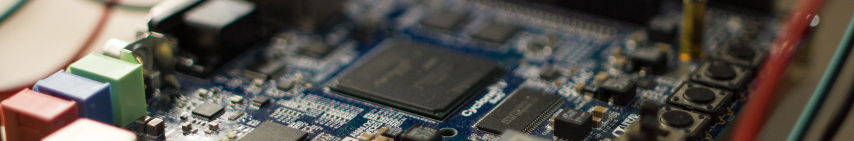
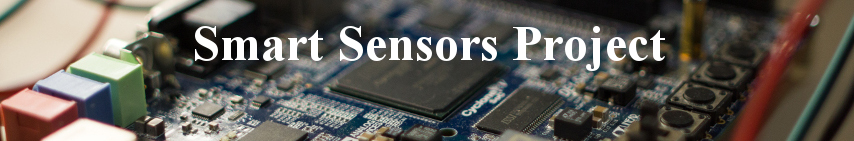
Added text to header image and improved translations

Changed region(s): [[0.2131, 0.1702, 0.7916, 0.5106], [0.6698, 0.1986, 0.7002, 0.227]]

diff --git a/es/project.html b/es/project.html
@@ -34,7 +34,6 @@
 				<a href="index.html">
 				<img src="../images/misc/portada.jpg" style= "margin-top: 5px" width="818px">
 				</a>
-				<div id="header-title" class="w3-display-middle">Smart Sensors Project</div>
 			</div>
 			
 			<div class="w3-content w3-display-container">
@@ -51,30 +50,30 @@
 			
 			<!-- Our goal Grid -->
 			<div class="w3-row-padding w3-padding-16 w3-container">	
-				<h1 width="818px">Our goal</h1>
+				<h1 width="818px"> Objectivo </h1>
 				<h5 style="text-indent: 40px" class="w3-padding-8">
-					Our goal is ...
+					Nuestro objetivo es ...
 					<ol class="research_list">
-						<li class="research_list"> FPSoC Characterization </li>
-					  	<li class="research_list"> FPSoC based UGV iSpace </li>
+						<li class="research_list"> Caracterización de FPSoC  </li>
+					  	<li class="research_list"> iSpace UGV basado en FPSoC </li>
 						<li class="research_list"> Quartz Crystal Microballance (QCM) </li>
-						<li class="research_list"> Battery Management System (BMS) </li>
-						<li class="research_list"> Medical applications </li>
+						<li class="research_list"> Sistema de gestión de baterías (BMS) </li>
+						<li class="research_list"> Aplicaciones médicas </li>
 					</ol>
 				  </h5>		
 			</div>
 			
 			<div class="w3-row-padding w3-padding-16 w3-container">	
-				<h1 width="818px">Lines of Research</h1>
+				<h1 width="818px"> Líneas de investigación </h1>
 				
 				
-				<h2> FPSoC Characterization </h2>
+				<h2> Caracterización de FPSoC </h2>
 				<h5 style="text-indent: 40px" class="w3-padding-8">
 					En un lugar de la Mancha, de cuyo nombre no quiero acordarme, no ha mucho tiempo que vivía un hidalgo de los de
 					lanza en astillero, adarga antigua, rocín flaco y galgo corredor. 
 				</h5>		
 				
-				<h2> FPSoC based UGV iSpace </h2>
+				<h2> iSpace UGV basado en FPSoC </h2>
 				<h5 style="text-indent: 40px" class="w3-padding-8">
 					En un lugar de la Mancha, de cuyo nombre no quiero acordarme, no ha mucho tiempo que vivía un hidalgo de los de
 					lanza en astillero, adarga antigua, rocín flaco y galgo corredor. 
@@ -86,13 +85,13 @@
 					lanza en astillero, adarga antigua, rocín flaco y galgo corredor. 
 				</h5>	
 				
-				<h2> Battery Management System (BMS) </h2>
+				<h2> Sistema de gestión de baterías (BMS) </h2>
 				<h5 style="text-indent: 40px" class="w3-padding-8">
 					En un lugar de la Mancha, de cuyo nombre no quiero acordarme, no ha mucho tiempo que vivía un hidalgo de los de
 					lanza en astillero, adarga antigua, rocín flaco y galgo corredor. 
 				</h5>	
 				
-				<h2> Medical applications </h2>
+				<h2> Aplicaciones médicas </h2>
 				<h5 style="text-indent: 40px" class="w3-padding-8">
 					En un lugar de la Mancha, de cuyo nombre no quiero acordarme, no ha mucho tiempo que vivía un hidalgo de los de
 					lanza en astillero, adarga antigua, rocín flaco y galgo corredor. 

diff --git a/gl/project.html b/gl/project.html
@@ -34,7 +34,6 @@
 				<a href="index.html">
 				<img src="../images/misc/portada.jpg" style= "margin-top: 5px" width="818px">
 				</a>
-				<div id="header-title" class="w3-display-middle">Smart Sensors Project</div>
 			</div>
 			
 			<div class="w3-content w3-display-container">
@@ -51,30 +50,30 @@
 			
 			<!-- Our goal Grid -->
 			<div class="w3-row-padding w3-padding-16 w3-container">	
-				<h1 width="818px">Our goal</h1>
+				<h1 width="818px">Obxetivo</h1>
 				<h5 style="text-indent: 40px" class="w3-padding-8">
-					Our goal is ...
+					O noso obxetivo é ...
 					<ol class="research_list">
-						<li class="research_list"> FPSoC Characterization </li>
-					  	<li class="research_list"> FPSoC based UGV iSpace </li>
+						<li class="research_list"> Caracterización de FPSoC  </li>
+					  	<li class="research_list"> iSpace UGV basado en FPSoC </li>
 						<li class="research_list"> Quartz Crystal Microballance (QCM) </li>
-						<li class="research_list"> Battery Management System (BMS) </li>
-						<li class="research_list"> Medical applications </li>
+						<li class="research_list"> Sistema de xestión de baterías (BMS) </li>
+						<li class="research_list"> Aplicacións médicas </li>
 					</ol>
 				  </h5>		
 			</div>
 			
 			<div class="w3-row-padding w3-padding-16 w3-container">	
-				<h1 width="818px">Lines of Research</h1>
+				<h1 width="818px"> Líneas de investigación </h1>
 				
 				
-				<h2> FPSoC Characterization </h2>
+				<h2> Caracterización de FPSoC </h2>
 				<h5 style="text-indent: 40px" class="w3-padding-8">
 					En un lugar de la Mancha, de cuyo nombre no quiero acordarme, no ha mucho tiempo que vivía un hidalgo de los de
 					lanza en astillero, adarga antigua, rocín flaco y galgo corredor. 
 				</h5>		
 				
-				<h2> FPSoC based UGV iSpace </h2>
+				<h2> iSpace UGV basado en FPSoC </h2>
 				<h5 style="text-indent: 40px" class="w3-padding-8">
 					En un lugar de la Mancha, de cuyo nombre no quiero acordarme, no ha mucho tiempo que vivía un hidalgo de los de
 					lanza en astillero, adarga antigua, rocín flaco y galgo corredor. 
@@ -86,13 +85,13 @@
 					lanza en astillero, adarga antigua, rocín flaco y galgo corredor. 
 				</h5>	
 				
-				<h2> Battery Management System (BMS) </h2>
+				<h2> Sistema de xestión de baterías (BMS) </h2>
 				<h5 style="text-indent: 40px" class="w3-padding-8">
 					En un lugar de la Mancha, de cuyo nombre no quiero acordarme, no ha mucho tiempo que vivía un hidalgo de los de
 					lanza en astillero, adarga antigua, rocín flaco y galgo corredor. 
 				</h5>	
 				
-				<h2> Medical applications </h2>
+				<h2> Aplicacións médicas </h2>
 				<h5 style="text-indent: 40px" class="w3-padding-8">
 					En un lugar de la Mancha, de cuyo nombre no quiero acordarme, no ha mucho tiempo que vivía un hidalgo de los de
 					lanza en astillero, adarga antigua, rocín flaco y galgo corredor. 

diff --git a/gl/index.html b/gl/index.html
@@ -34,7 +34,6 @@
 				<a href="index.html">
 				<img src="../images/misc/portada.jpg" style= "margin-top: 5px" width="818px">
 				</a>
-				<div id="header-title" class="w3-display-middle">Smart Sensors Project</div>
 			</div>
 			
 			<div class="w3-content w3-display-container">
@@ -67,7 +66,7 @@
 
 			<!-- Summary Grid -->
 			<div class="w3-row-padding w3-padding-16 w3-container">	
-				  <h1 width="818px">Smart Sensors</h1>
+				  <h1 width="818px"> Sensores Intelixentes </h1>
 				  <h5 style="text-indent: 40px" class="w3-padding-8">
 					  En un lugar de la Mancha, de cuyo nombre no quiero acordarme, no ha mucho tiempo que vivía un hidalgo de los de
 					  lanza en astillero, adarga antigua, rocín flaco y galgo corredor. Una olla de algo más vaca que carnero, salpicón
@@ -88,7 +87,7 @@
 			<div class="w3-row-padding w3-padding-8 w3-container">
 				<div class="w3-content">
 	
-					<h1>Colaborators</h1>
+					<h1>Colaboradores</h1>
 
 					<ul id="colaborators_list">
 						<li><a href="http://ibivigo.webs.uvigo.es/index.php?lang=en" target="_blank">
@@ -106,7 +105,7 @@
 			<div class="w3-row-padding w3-padding-8 w3-container">
 				<div class="w3-content">
 	
-					<h1 >Funded Grants</h1>
+					<h1 > Becas de financiación </h1>
 					<div class="w3-row-padding w3-padding-16 w3-container">
 						<div class="w3-third w3-center">
 							<img src="../images/logos/logo-mineco.jpg">						

diff --git a/es/index.html b/es/index.html
@@ -34,7 +34,6 @@
 				<a href="index.html">
 				<img src="../images/misc/portada.jpg" style= "margin-top: 5px" width="818px">
 				</a>
-				<div id="header-title" class="w3-display-middle">Smart Sensors Project</div>
 			</div>
 			
 			<div class="w3-content w3-display-container">
@@ -67,7 +66,7 @@
 
 			<!-- Summary Grid -->
 			<div class="w3-row-padding w3-padding-16 w3-container">	
-				  <h1 width="818px">Smart Sensors</h1>
+				  <h1 width="818px">Sensores Inteligentes</h1>
 				  <h5 style="text-indent: 40px" class="w3-padding-8">
 					  En un lugar de la Mancha, de cuyo nombre no quiero acordarme, no ha mucho tiempo que vivía un hidalgo de los de
 					  lanza en astillero, adarga antigua, rocín flaco y galgo corredor. Una olla de algo más vaca que carnero, salpicón
@@ -88,7 +87,7 @@
 			<div class="w3-row-padding w3-padding-8 w3-container">
 				<div class="w3-content">
 	
-					<h1>Colaborators</h1>
+					<h1>Colaboradores</h1>
 
 					<ul id="colaborators_list">
 						<li><a href="http://ibivigo.webs.uvigo.es/index.php?lang=en" target="_blank">
@@ -106,7 +105,7 @@
 			<div class="w3-row-padding w3-padding-8 w3-container">
 				<div class="w3-content">
 	
-					<h1 >Funded Grants</h1>
+					<h1 > Becas de financiación </h1>
 					<div class="w3-row-padding w3-padding-16 w3-container">
 						<div class="w3-third w3-center">
 							<img src="../images/logos/logo-mineco.jpg">						

diff --git a/es/publications.html b/es/publications.html
@@ -34,7 +34,6 @@
 				<a href="index.html">
 				<img src="../images/misc/portada.jpg" style= "margin-top: 5px" width="818px">
 				</a>
-				<div id="header-title" class="w3-display-middle">Smart Sensors Project</div>
 			</div>
 			
 			<div class="w3-content w3-display-container">
@@ -52,7 +51,7 @@
 			
 			<div class="w3-row-padding w3-padding-16 w3-container">	
 
-				<h1 class="w3-margin ">Journals</h1>
+				<h1 class="w3-margin "> Revistas </h1>
 				
 					<h4 class="w3-margin "><b><a href="http://ieeexplore.ieee.org/document/6678790/?arnumber=6678790" target="_blank" >Field-Programmable System-on-Chip for Localization of UGVs in an Indoor iSpace</a></b></h4>
 					<h5 class="w3-margin " class="w3-margin "> 
@@ -75,7 +74,7 @@
 						Only much more complex and expensive systems achieve similar performance.
 				</p>
 				</div>
-				<h1 class="w3-margin ">Conferences</h1>
+				<h1 class="w3-margin "> Conferencias </h1>
 					<h4 class="w3-margin "><b><a href="http://ieeexplore.ieee.org/document/7392759/?arnumber=7392759&tag=1" target="_blank" >Characterization of FPGA-master ARM communication delays in Cyclone V devices</a></b></h4>
 					<h5 class="w3-margin " class="w3-margin "> 
 						Roberto Fernández Molanes, Filipe Salgado, José Fariña, Juan J. Rodríguez-Andina <br/>

diff --git a/gl/publications.html b/gl/publications.html
@@ -34,7 +34,6 @@
 				<a href="index.html">
 				<img src="../images/misc/portada.jpg" style= "margin-top: 5px" width="818px">
 				</a>
-				<div id="header-title" class="w3-display-middle">Smart Sensors Project</div>
 			</div>
 			
 			<div class="w3-content w3-display-container">
@@ -52,7 +51,7 @@
 			
 			<div class="w3-row-padding w3-padding-16 w3-container">	
 
-				<h1 class="w3-margin ">Journals</h1>
+				<h1 class="w3-margin "> Revistas </h1>
 				
 					<h4 class="w3-margin "><b><a href="http://ieeexplore.ieee.org/document/6678790/?arnumber=6678790" target="_blank" >Field-Programmable System-on-Chip for Localization of UGVs in an Indoor iSpace</a></b></h4>
 					<h5 class="w3-margin " class="w3-margin "> 
@@ -75,7 +74,7 @@
 						Only much more complex and expensive systems achieve similar performance.
 				</p>
 				</div>
-				<h1 class="w3-margin ">Conferences</h1>
+				<h1 class="w3-margin "> Conferencias </h1>
 					<h4 class="w3-margin "><b><a href="http://ieeexplore.ieee.org/document/7392759/?arnumber=7392759&tag=1" target="_blank" >Characterization of FPGA-master ARM communication delays in Cyclone V devices</a></b></h4>
 					<h5 class="w3-margin " class="w3-margin "> 
 						Roberto Fernández Molanes, Filipe Salgado, José Fariña, Juan J. Rodríguez-Andina <br/>

diff --git a/gl/contact.html b/gl/contact.html
@@ -34,7 +34,6 @@
 				<a href="index.html">
 				<img src="../images/misc/portada.jpg" style= "margin-top: 5px" width="818">
 				</a>
-				<div id="header-title" class="w3-display-middle">Smart Sensors Project</div>
 			</div>
 			
 			<div class="w3-content w3-display-container">
@@ -51,16 +50,16 @@
 			</div>
 			
 			<div class="w3-row-padding w3-padding-16 w3-container">				
-			<h1 width="818px">Contact</h1>
-			<h2 class="w3-margin "> Main address: </h2>
+			<h1 width="818px">Contacto</h1>
+			<h2 class="w3-margin "> Dirección postal: </h2>
 			<p align="center">
-				Departamento de Tecnología Electrónica <br/>
-				Escuela de Ingeniería Industrial (Sede Campus)<br/>
+				Departamento de Tecnoloxía Electrónica <br/>
+				Escola de Enxeñería Industrial (Sede Campus)<br/>
 				Campus Universitario S/N <br/>
 				CP: 36310, Vigo – Spain<br/>
 			</p>
 			
-			<h2 class="w3-margin "> Telephone number and mail address: </h2>
+			<h2 class="w3-margin "> Teléfono e correo electrónico: </h2>
 			<p align="center">
 				<b> Tel: </b> +34 986 000 000 <br/>
 				<b> e-mail: </b><a href="mailto:dte@dte.es" target ="_blank">dte@dte.es</a>  

diff --git a/en/index.html b/en/index.html
@@ -24,8 +24,8 @@
 					<img src="../images/logos/logo_DTE_small.png" align="left" width="190" >
 				</a>			
 				
-				<a href="../gl/team.html"><img src="../images/misc/gal_flag.png"></a>
-				<a href="../es/team.html"><img src="../images/misc/esp_flag.png"></a>
+				<a href="../gl/index.html"><img src="../images/misc/gal_flag.png"></a>
+				<a href="../es/index.html"><img src="../images/misc/esp_flag.png"></a>
 				<a href="#"><img src="../images/misc/uk_flag.png"></a>
 				
 				<a href="http://uvigo.gal/uvigo_en/index.html" target="_blank">
@@ -34,7 +34,6 @@
 				<a href="index.html">
 				<img src="../images/misc/portada.jpg" style= "margin-top: 5px" width="818px">
 				</a>
-				<div id="header-title" class="w3-display-middle">Smart Sensors Project</div>
 			</div>
 			
 			<div class="w3-content w3-display-container">
@@ -88,7 +87,7 @@
 			<div class="w3-row-padding w3-padding-8 w3-container">
 				<div class="w3-content">
 	
-					<h1>Colaborators</h1>
+					<h1>Collaborators</h1>
 
 					<ul id="colaborators_list">
 						<li><a href="http://ibivigo.webs.uvigo.es/index.php?lang=en" target="_blank">

diff --git a/es/contact.html b/es/contact.html
@@ -34,7 +34,6 @@
 				<a href="index.html">
 				<img src="../images/misc/portada.jpg" style= "margin-top: 5px" width="818">
 				</a>
-				<div id="header-title" class="w3-display-middle">Smart Sensors Project</div>
 			</div>
 			
 			<div class="w3-content w3-display-container">
@@ -51,8 +50,8 @@
 			</div>
 			
 			<div class="w3-row-padding w3-padding-16 w3-container">				
-			<h1 width="818px">Contact</h1>
-			<h2 class="w3-margin "> Main address: </h2>
+			<h1 width="818px">Contacto</h1>
+			<h2 class="w3-margin "> Dirección postal: </h2>
 			<p align="center">
 				Departamento de Tecnología Electrónica <br/>
 				Escuela de Ingeniería Industrial (Sede Campus)<br/>
@@ -60,7 +59,7 @@
 				CP: 36310, Vigo – Spain<br/>
 			</p>
 			
-			<h2 class="w3-margin "> Telephone number and mail address: </h2>
+			<h2 class="w3-margin "> Teléfono y correo electrónico: </h2>
 			<p align="center">
 				<b> Tel: </b> +34 986 000 000 <br/>
 				<b> e-mail: </b><a href="mailto:dte@dte.es" target ="_blank">dte@dte.es</a>  

diff --git a/es/team.html b/es/team.html
@@ -33,7 +33,6 @@
 				<a href="index.html">
 				<img src="../images/misc/portada.jpg" style= "margin-top: 5px" width="818px">
 				</a>
-				<div id="header-title" class="w3-display-middle">Smart Sensors Project</div>
 			</div>
 			
 
@@ -78,7 +77,7 @@
 			</div>
 			
 			
-			<h1 class="w3-margin ">Collaborators</h1>
+			<h1 class="w3-margin ">Colaboradores</h1>
 
 			
 		

diff --git a/gl/team.html b/gl/team.html
@@ -33,7 +33,6 @@
 				<a href="index.html">
 				<img src="../images/misc/portada.jpg" style= "margin-top: 5px" width="818px">
 				</a>
-				<div id="header-title" class="w3-display-middle">Smart Sensors Project</div>
 			</div>
 			
 
@@ -78,7 +77,7 @@
 			</div>
 			
 			
-			<h1 class="w3-margin ">Collaborators</h1>
+			<h1 class="w3-margin ">Colaboradores</h1>
 
 			
 		

diff --git a/en/project.html b/en/project.html
@@ -34,7 +34,6 @@
 				<a href="index.html">
 				<img src="../images/misc/portada.jpg" style= "margin-top: 5px" width="818px">
 				</a>
-				<div id="header-title" class="w3-display-middle">Smart Sensors Project</div>
 			</div>
 			
 			<div class="w3-content w3-display-container">
